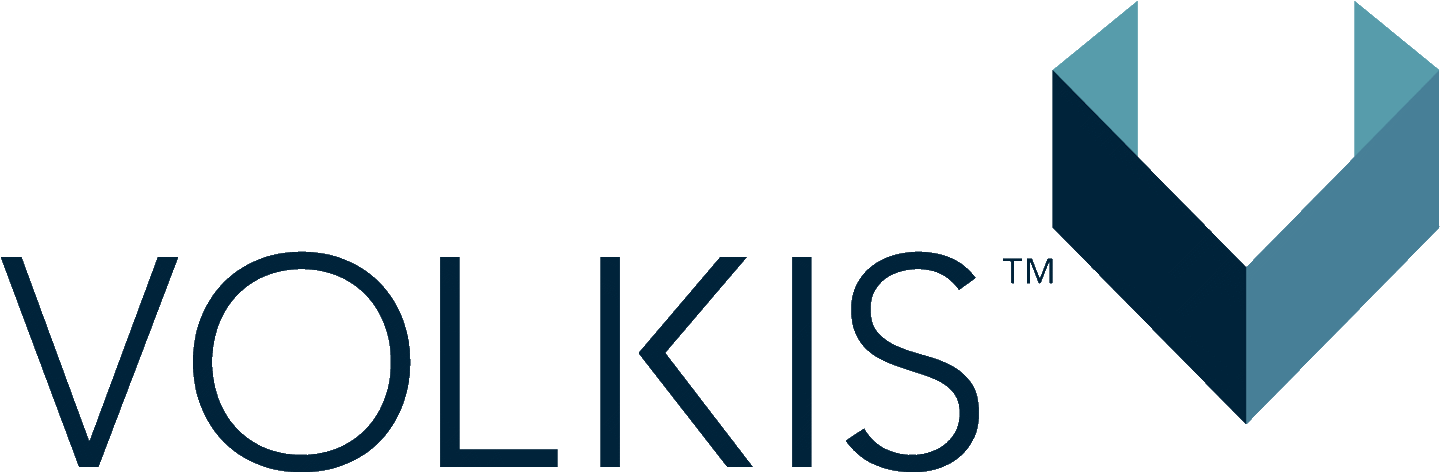
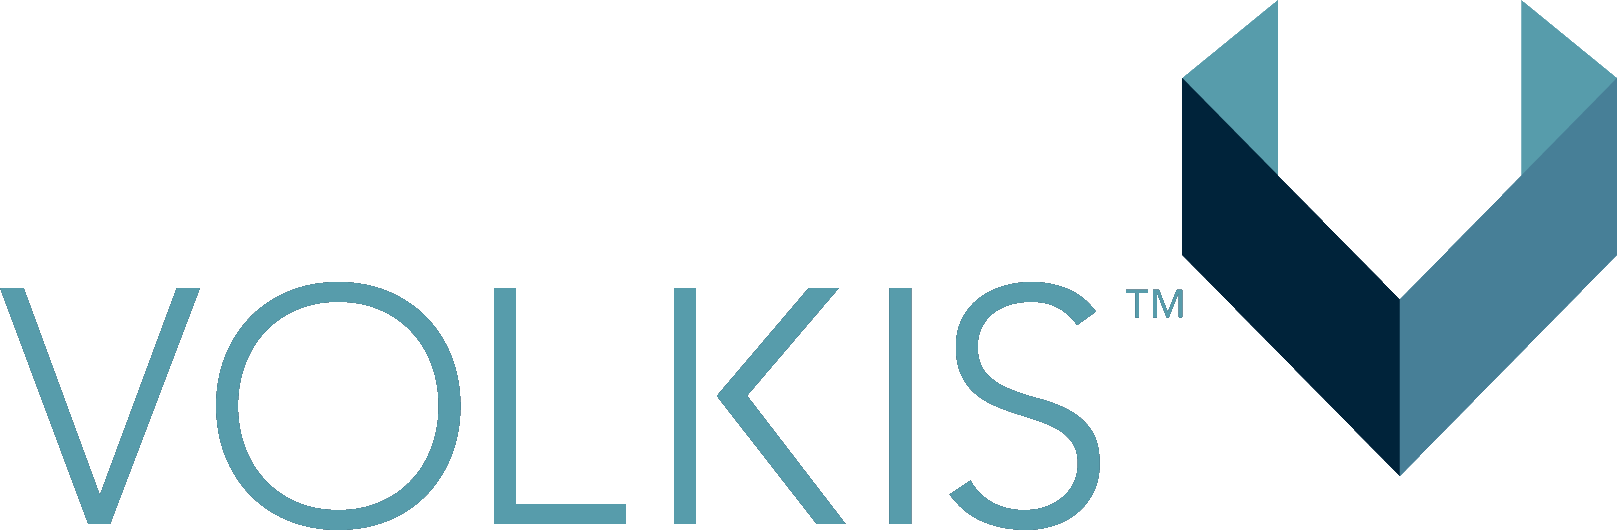
more component fixes + font update

Changed region(s): [[0.0, 0.5328, 0.75, 1.0]]

diff --git a/src/data/sponsors.ts b/src/data/sponsors.ts
@@ -1,16 +1,16 @@
 const sponsors = [
     {
         name: "Division 5",
-        industry: "Technology Solutions",
-        about: "Division 5 delivers practical digital and technology solutions that help organisations modernise, scale, and solve complex business challenges.",
+        industry: "Cyber Security",
+        about: "Division 5 is a cyber security company that offers solutions for small, medium, and large businesses and government agencies. They provide expert strategy, testing, and attack simulation to help you prepare for cyber attacks before they happen.",
         website: "https://division5.io/",
         logo: "/src/assets/sponsors/division5.png",
         tier: "Platinum"
     },
     {
-        name: "Technology 1",
+        name: "Technology One",
         industry: "Enterprise Software",
-        about: "Technology 1 develops enterprise software platforms that support organisations across finance, people, operations, and digital transformation.",
+        about: "Technology One develops enterprise software platforms that support organisations across finance, people, operations, and digital transformation.",
         website: "https://www.technology1.com",
         logo: "/src/assets/sponsors/technology1.png",
         tier: "Bronze"
@@ -18,7 +18,7 @@ const sponsors = [
     {
         name: "Volkis",
         industry: "Cyber Security",
-        about: "Volkis is a specialist cyber security consultancy helping organisations strengthen security posture through advisory, engineering, and managed services.",
+        about: "Independent Australian offensive cyber security. We are a bunch of hackers that can help you find out where you're vulnerable, how to improve, and how to protect your customers and your systems, helping you concentrate on running your organisation without interruption.",
         website: "https://www.volkis.com.au/",
         logo: "/src/assets/sponsors/volkis.png",
         tier: "Bronze"

diff --git a/src/styles/typography.css b/src/styles/typography.css
@@ -1,0 +1,23 @@
+@import url("https://fonts.googleapis.com/css2?family=Manrope:wght@400;500;600;700;800&family=Space+Grotesk:wght@500;600;700&display=swap");
+
+:root {
+    --font-body: "Manrope", "Segoe UI", "Helvetica Neue", sans-serif;
+    --font-display: "Space Grotesk", "Trebuchet MS", sans-serif;
+}
+
+body {
+    font-family: var(--font-body);
+    letter-spacing: 0.005em;
+    text-rendering: optimizeLegibility;
+    -webkit-font-smoothing: antialiased;
+}
+
+h1,
+h2,
+h3,
+h4,
+h5,
+h6 {
+    font-family: var(--font-display);
+    letter-spacing: -0.02em;
+}

diff --git a/src/data/site.ts b/src/data/site.ts
@@ -1,7 +1,7 @@
 const socialLinks = [
     {
         title: "Discord",
-        path: "https://discord.gg/Mwhrm2z2DN",
+        path: "https://discord.gg/454Db9UXRC",
         icon: "tabler:brand-discord"
     },
     {
